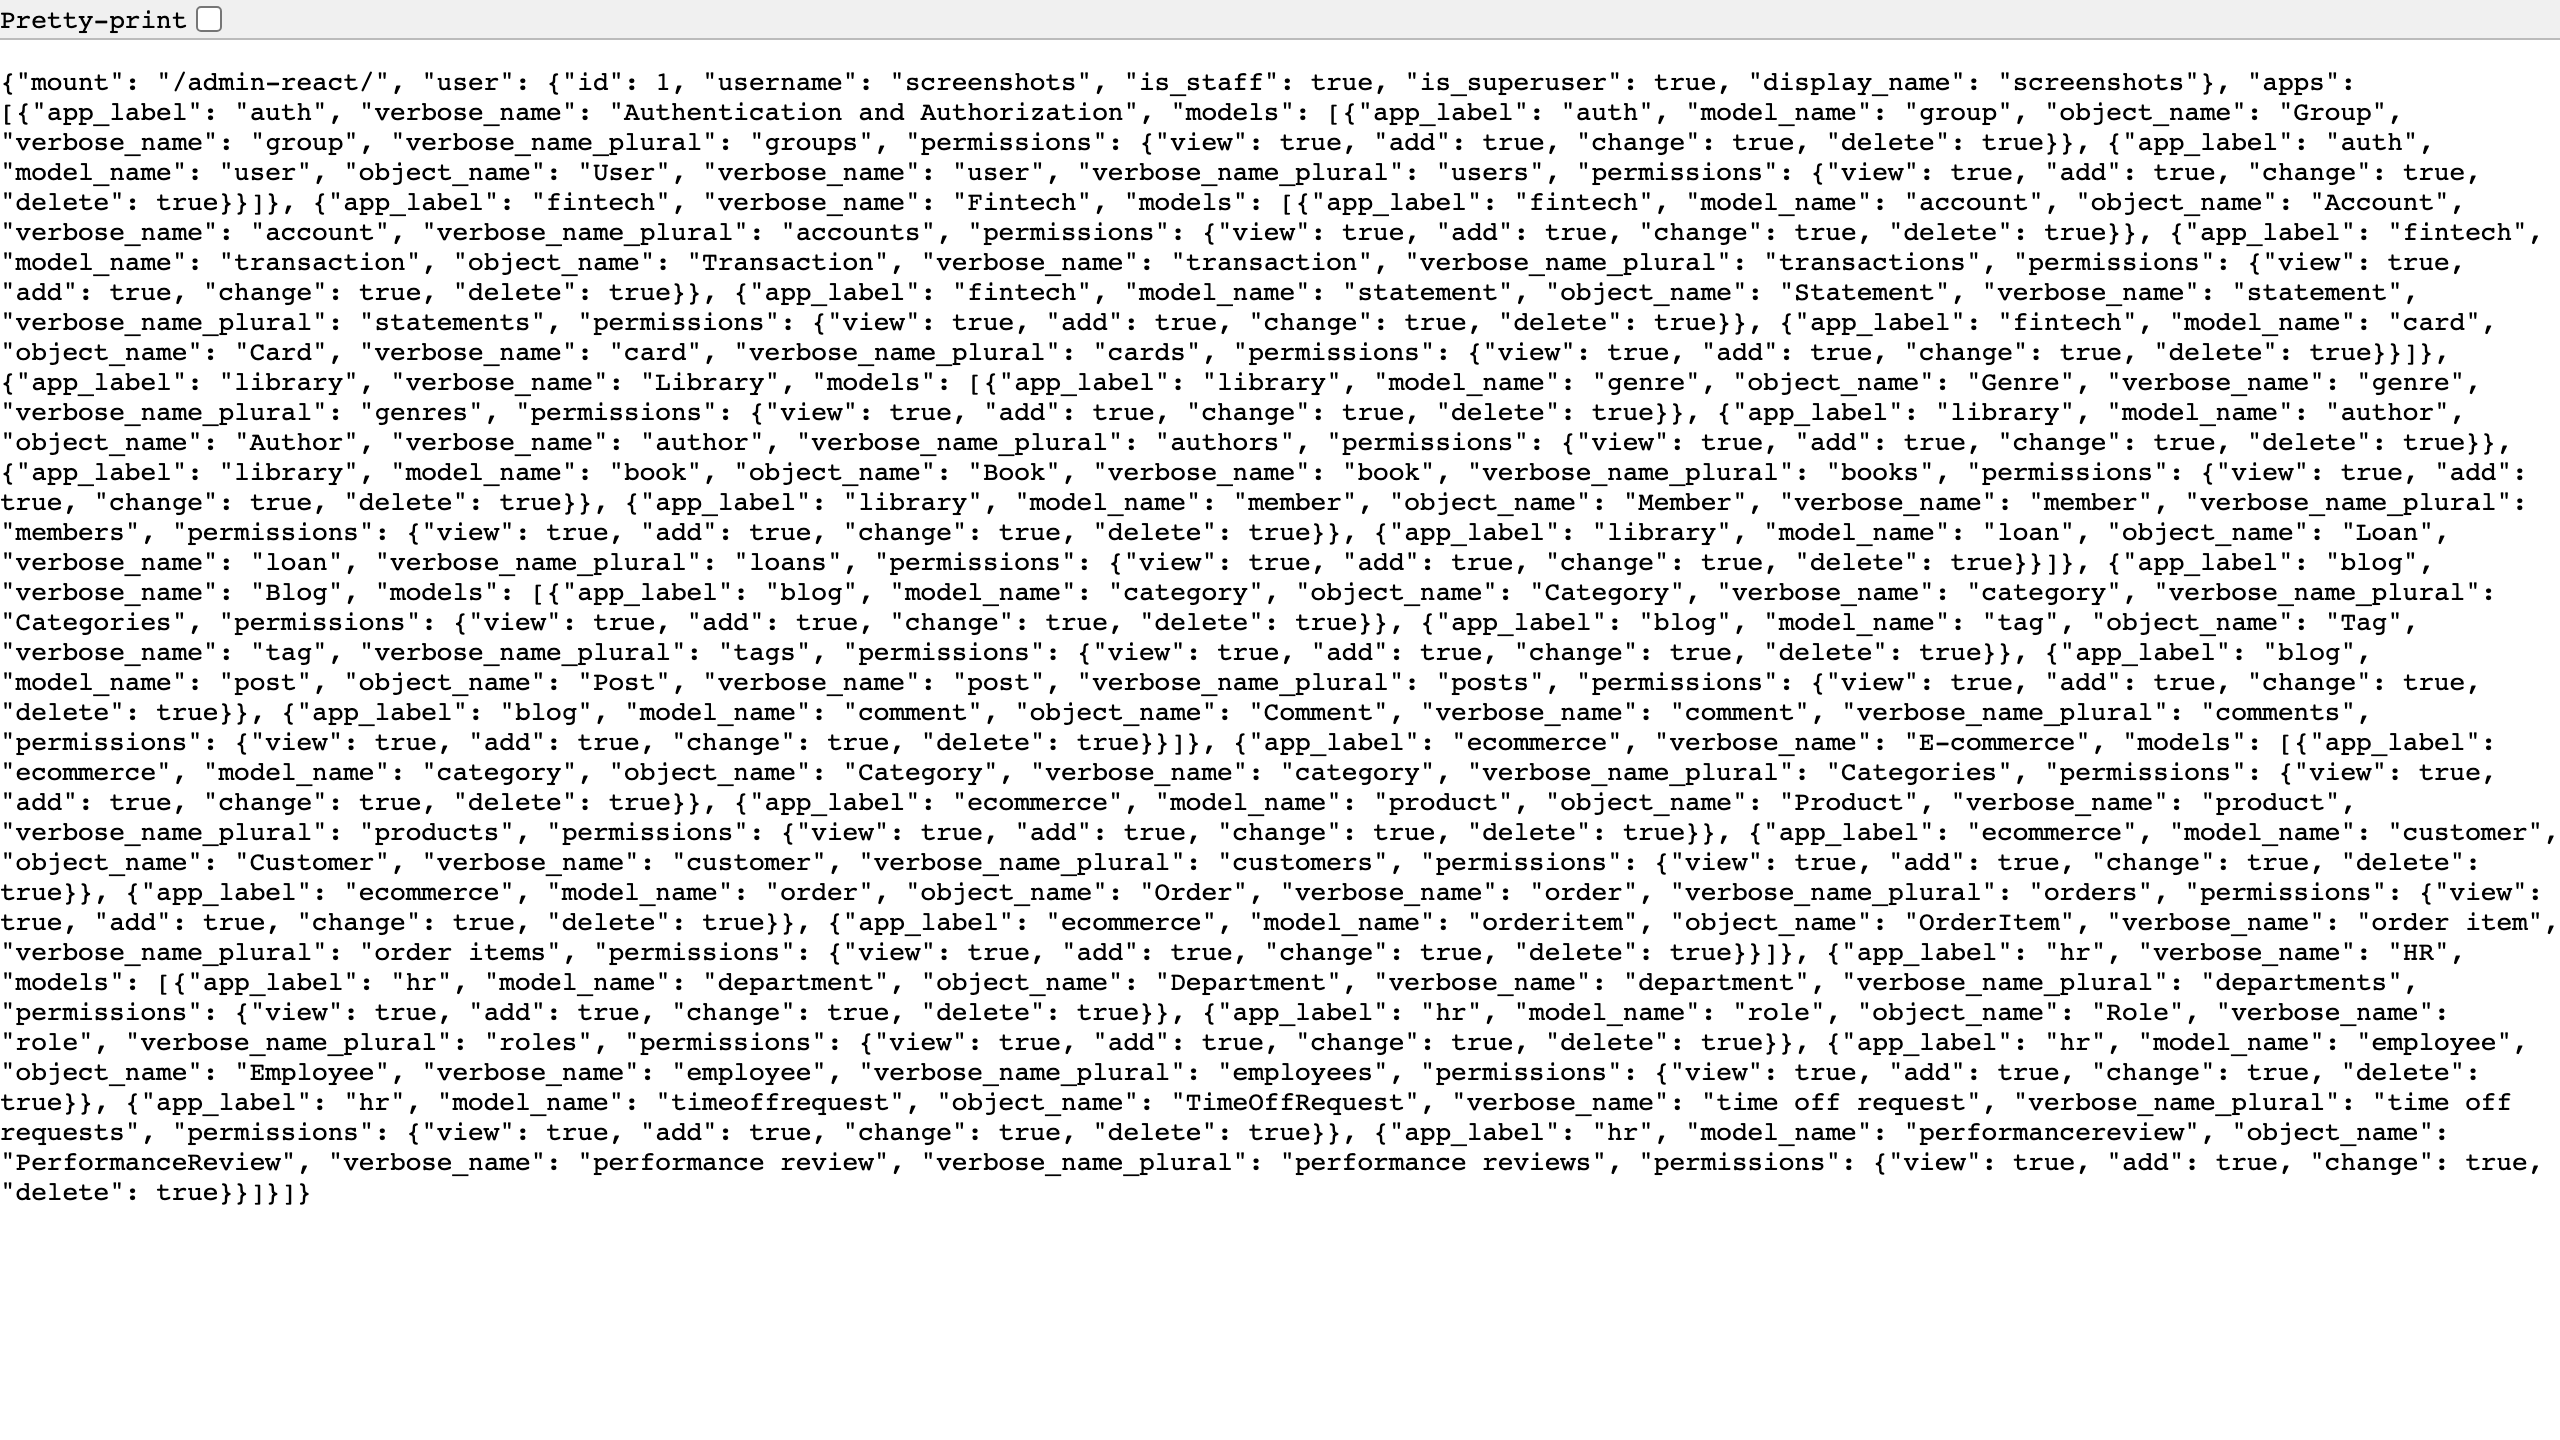
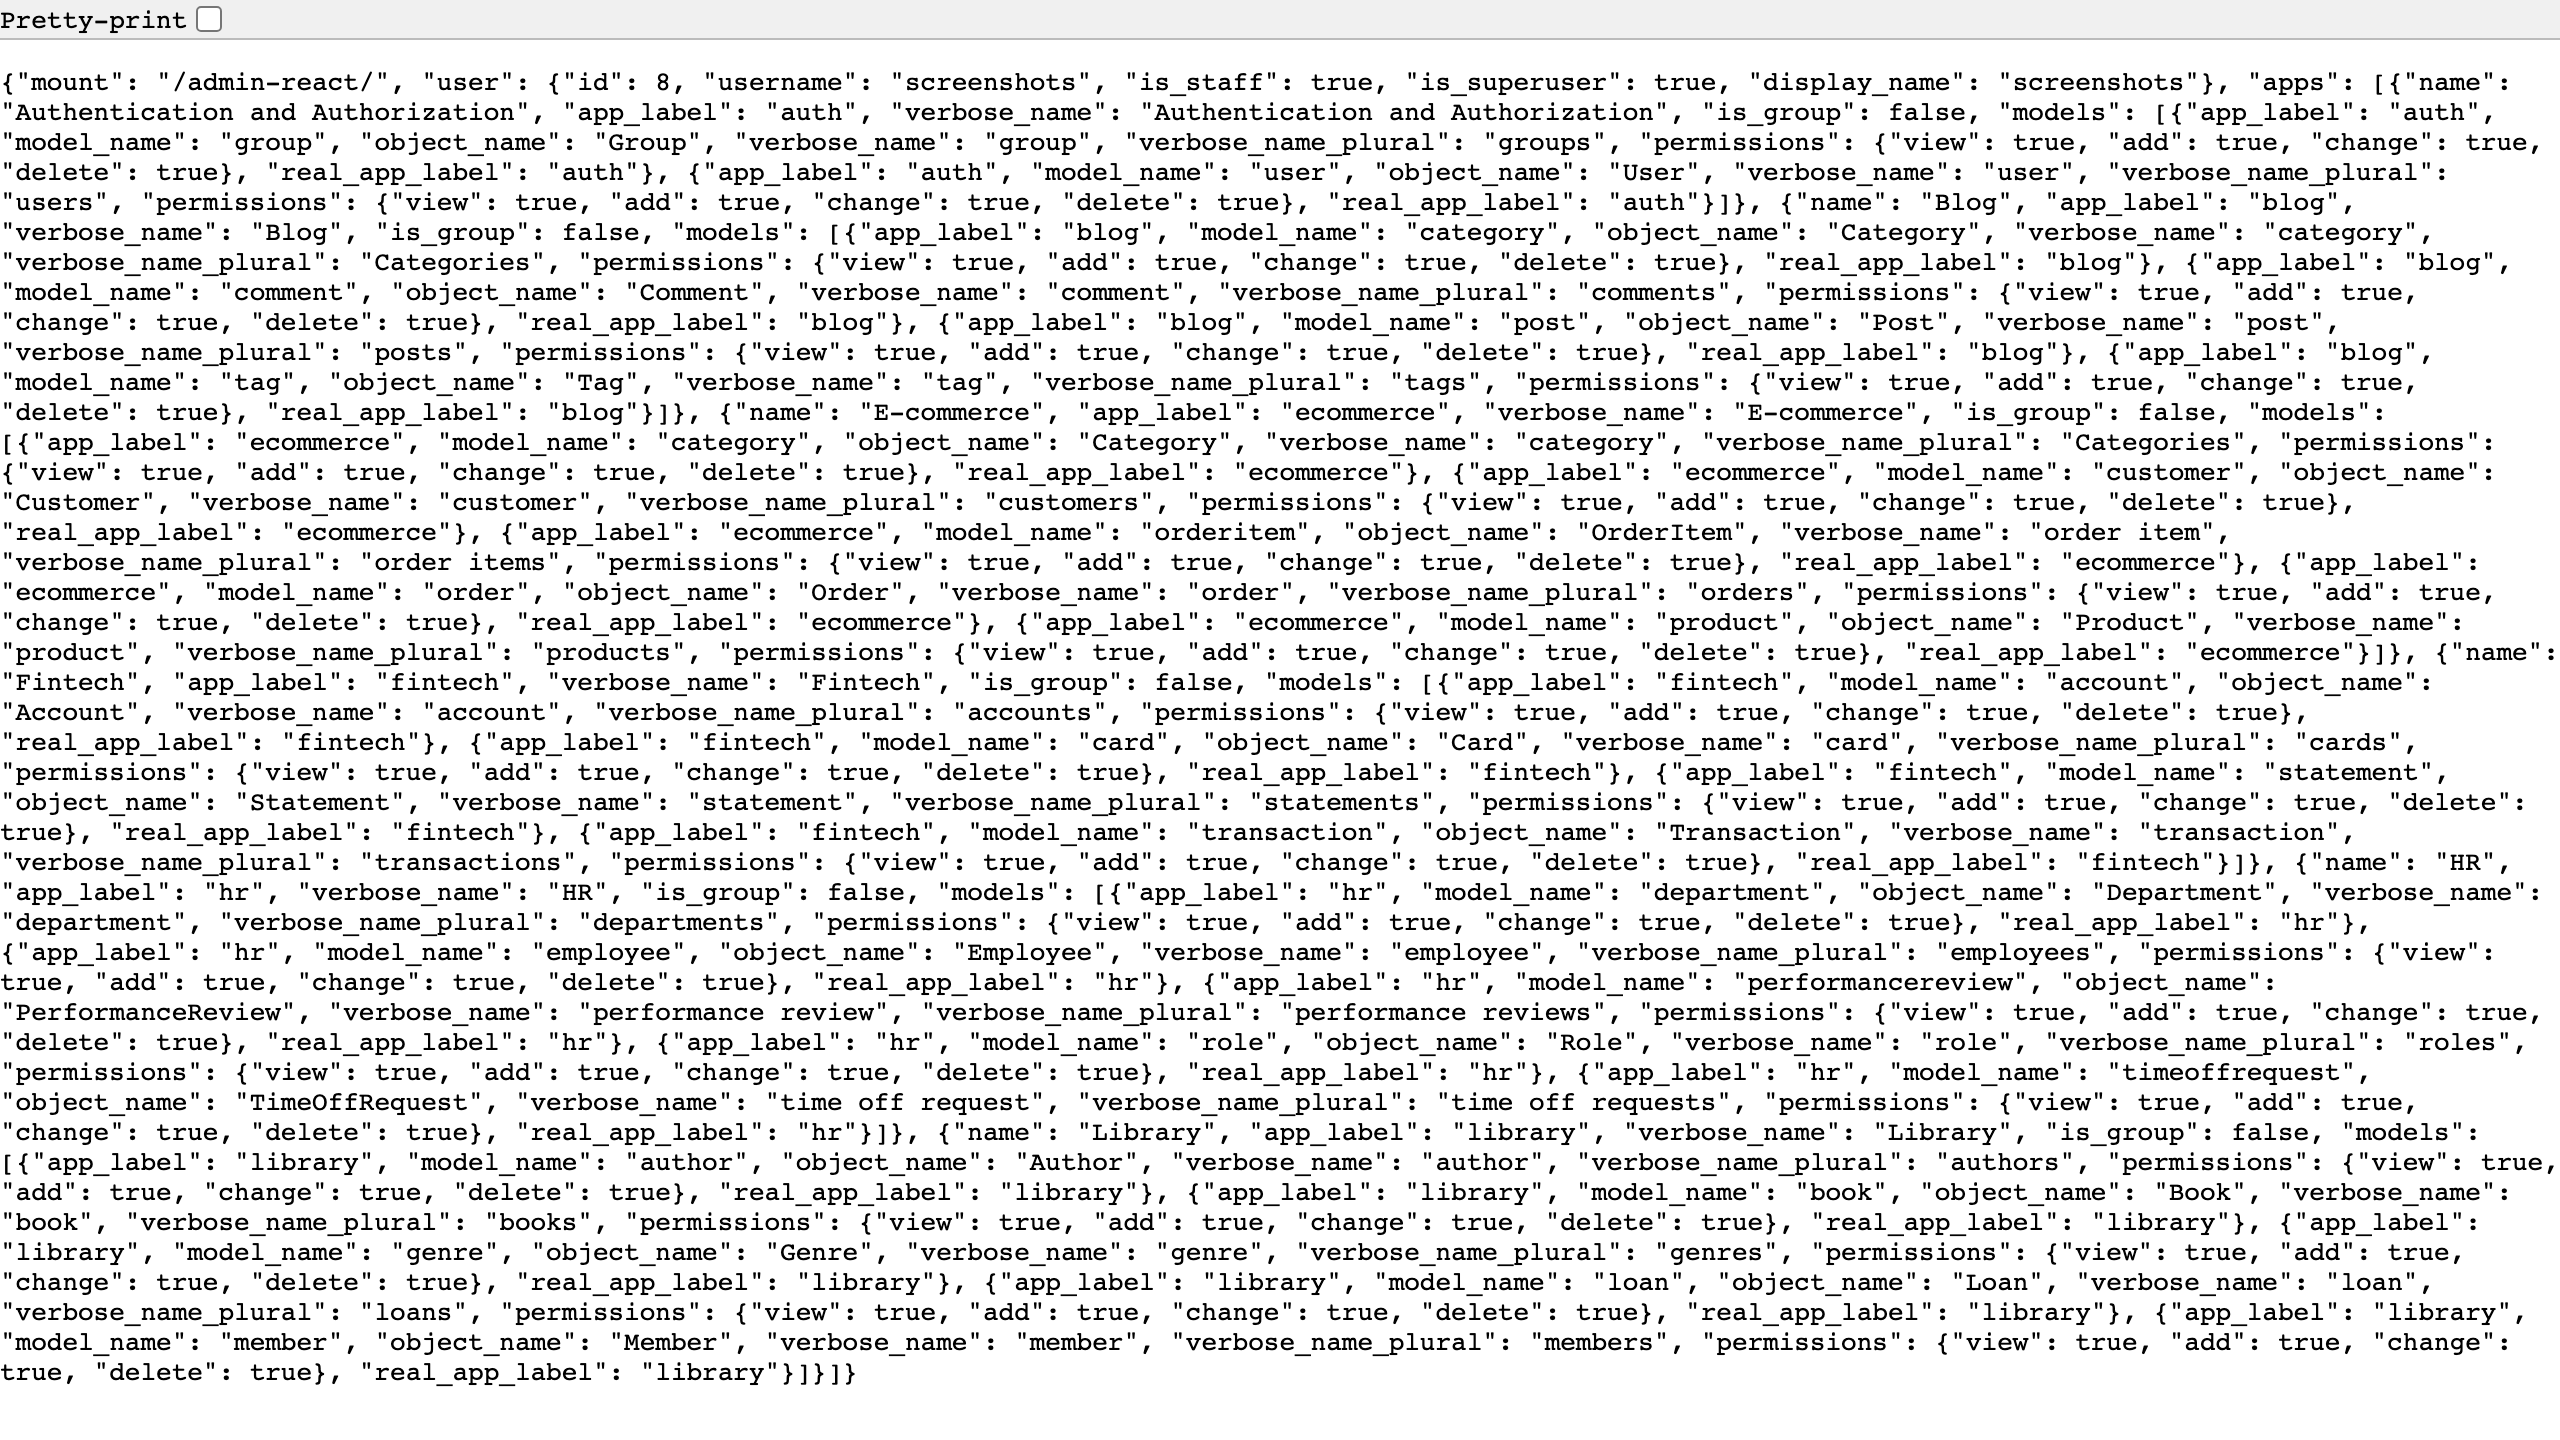
docs(readme): real django-admin-react SPA screenshots (not the legacy admin) (#174)
The README showed the *legacy Django admin* — the capture script
(scripts/screenshots.mjs) was pointed at /admin/legacy/ for 5 of 6
shots, so the "screenshots" misrepresented the product.

- `scripts/screenshots.mjs` now captures the **SPA** (/admin-react/):
  the package login page, the registry/home, list view, mobile list,
  and detail view — using the legacy login only to establish the
  shared session cookie. SPA captures wait for React to render past
  network-idle.
- Regenerated `docs/screenshots/*.png` against the example apps with
  the built bundle. New names make the source unambiguous
  (`01-spa-login`, `02-spa-registry`, `03-spa-list`,
  `04-spa-list-mobile`, `05-spa-detail`, `06-registry-api-json`).
- Removed the 5 legacy `*-admin-*.png` captures (no longer referenced).
- README "Screenshots" section now points at the SPA images and drops
  the "this is the legacy admin" disclaimer.

The login shot is the package's own login (admin_react/login.html from
the package-login feature); the registry shot shows the sidebar
filter-as-you-type. Deterministic synthetic fixtures — no PII.

Closes the README half of #87 / #115. Parity-visible: ACCEPTANCE §2.3 O-2.

Changed region(s): [[0.0, 0.0312, 1.0, 0.9688], [0.9688, 0.4375, 1.0, 0.4688]]

diff --git a/README.md b/README.md
@@ -44,23 +44,22 @@ permissions at runtime from `GET /api/v1/registry/`. Add a new
 
 ## Screenshots
 
-> The React SPA shell is in flight. The screenshots below show the
-> **example apps** (`examples/library/`, `examples/fintech/`) rendered
-> by the **legacy Django admin** — i.e. the experience this package
-> modernises. Once the SPA's v0.1 implementation closes, this section
-> regenerates from `docs/screenshots/`.
+Real captures of the **django-admin-react SPA** rendering the bundled
+`examples/` apps — driven entirely by each app's `ModelAdmin`.
+Regenerate any time with `scripts/screenshots.sh` (Playwright against a
+throwaway example server).
 
-| Login                                              | Admin index (legacy)                                    |
-| -------------------------------------------------- | ------------------------------------------------------- |
-| ![Login](docs/screenshots/01-admin-login.png)      | ![Admin index](docs/screenshots/02-admin-index.png)     |
+| Sign in (package login)                            | Registry / home                                       |
+| -------------------------------------------------- | ----------------------------------------------------- |
+| ![Sign in](docs/screenshots/01-spa-login.png)      | ![Registry](docs/screenshots/02-spa-registry.png)     |
 
-| Library — list view                                            | Library — detail view                                            |
-| -------------------------------------------------------------- | ---------------------------------------------------------------- |
-| ![Author list](docs/screenshots/03-admin-library-list.png)     | ![Author detail](docs/screenshots/05-admin-library-detail.png)   |
+| List view (`list_display` + search)                     | Detail view                                          |
+| ------------------------------------------------------- | ---------------------------------------------------- |
+| ![List](docs/screenshots/03-spa-list.png)               | ![Detail](docs/screenshots/05-spa-detail.png)        |
 
-| Mobile (375 px) — `list_display` collapsed                          | API: `GET /api/v1/registry/`                                  |
-| ------------------------------------------------------------------- | ------------------------------------------------------------- |
-| ![Mobile list](docs/screenshots/04-admin-library-list-mobile.png)   | ![Registry JSON](docs/screenshots/06-registry-api-json.png)   |
+| Mobile (375 px)                                            | API: `GET /api/v1/registry/`                               |
+| ---------------------------------------------------------- | ---------------------------------------------------------- |
+| ![Mobile](docs/screenshots/04-spa-list-mobile.png)         | ![Registry JSON](docs/screenshots/06-registry-api-json.png) |
 
 Screenshots use deterministic synthetic fixtures (no real names,
 emails, account numbers, or PII).
